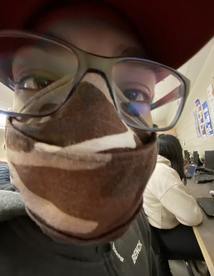
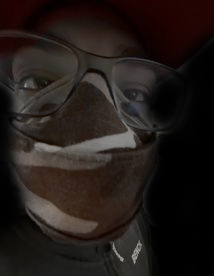
Added new character, Andrew. Improved all images

diff --git a/src/Main.java b/src/Main.java
@@ -83,9 +83,11 @@ public class Main extends JComponent implements ActionListener {
     boolean lightsOut = false;
     boolean FahadInRoom = false;
     boolean JadenInRoom = false;
+    boolean AndrewInRoom = false;
     boolean noPower = false;
     boolean powerAudio = false; //keeps track of if the out of power audio has already played. prevents audio repeating forever
     boolean doorSeenJad = false; //switches if jaden has been seen outside the door
+    boolean doorSeenAnd = false;
 
     //main menu buttons
     Rectangle newGameBut = new Rectangle(100, 460, 250, 50);
@@ -116,6 +118,7 @@ public class Main extends JComponent implements ActionListener {
     Office o = new Office();
     Fahad f = new Fahad(o, p, menu);
     Jaden j = new Jaden(o, p, menu);
+    Andrew and = new Andrew(o, p, menu, f);
     TimeController t = new TimeController();
     AudioController a = new AudioController();
 
@@ -207,7 +210,7 @@ public class Main extends JComponent implements ActionListener {
                     g.drawImage(p.leftHallLit, 100, 50, null);
                 }
                 if (j.getRoom() == 6 && o.getLight1()) {
-                    g.drawImage(j.jad1, 200, 100, null);
+                    g.drawImage(j.jadDoor, 200, 100, null);
                 }
             } else if (!lookingLeft) {
                 g.drawImage(p.butRight, 1191, 400, null);
@@ -216,19 +219,37 @@ public class Main extends JComponent implements ActionListener {
                 } else if (o.getLight2()) {
                     g.drawImage(p.rightHallLit, 980, 50, null);
                 }
+                if (and.getRoom() == 6 && o.getLight2()) {
+                    g.drawImage(and.andDoor, 800, 300, null);
+                }
             }
         } else if (camera) {
             //draws Fahad in the correct room
+            //System.out.println(f.getRoom());
             if (curCam == p.Cam1A && f.getRoom() == 0) {
                 g.drawImage(f.fad1, 500, 300, null);
             } else if (curCam == p.Cam1B && f.getRoom() == 1) {
-                g.drawImage(f.fad1, 600, 10, null);
+                g.drawImage(f.fad3, 600, 10, null);
             } else if (curCam == p.Cam7 && f.getRoom() == 2) {
-                g.drawImage(f.fad1, 450, 300, null);
+                g.drawImage(f.fad3, 450, 300, null);
             } else if (curCam == p.Cam4A && f.getRoom() == 4) {
-                g.drawImage(f.fad1, 500, 300, null);
+                g.drawImage(f.fad3, 500, 300, null);
             } else if (curCam == p.Cam4B && f.getRoom() == 5) {
                 g.drawImage(f.fad2, 0, 0, null);
+            }
+            
+            
+            //draws andrew in the correct room
+            if (curCam == p.Cam1A && and.getRoom() == 0) {
+                g.drawImage(and.and2, 750, 250, null);
+            } else if (curCam == p.Cam1B && and.getRoom() == 1) {
+                g.drawImage(and.and2, 200, 100, null);
+            } else if (curCam == p.Cam7 && and.getRoom() == 2) {
+                g.drawImage(and.and2, 550, 500, null);
+            } else if (curCam == p.Cam4A && and.getRoom() == 4) {
+                g.drawImage(and.and2, 500, 300, null);
+            } else if (curCam == p.Cam4B && and.getRoom() == 5) {
+                g.drawImage(and.and1, 0, 0, null);
             }
 
             //draws Jaden in the correct room
@@ -237,13 +258,13 @@ public class Main extends JComponent implements ActionListener {
             } else if (curCam == p.Cam1B && j.getRoom() == 1) {
                 g.drawImage(j.jad1, 300, 400, null);
             } else if (curCam == p.Cam5 && j.getRoom() == 2) {
-                g.drawImage(j.jad1, 600, 300, null);
+                g.drawImage(j.jadPaS, 0, 0, null);
             } else if (curCam == p.Cam2A && j.getRoom() == 3) {
                 g.drawImage(j.jad1, 700, 150, null);
             } else if (curCam == p.Cam3 && j.getRoom() == 4) {
                 g.drawImage(j.jad1, 500, 200, null);
             } else if (curCam == p.Cam2B && j.getRoom() == 5) {
-                g.drawImage(j.jad1, 700, 200, null);
+                g.drawImage(j.jadCorner, 0, 0, null);
             }
 
             g.setColor(Color.white);
@@ -321,6 +342,7 @@ public class Main extends JComponent implements ActionListener {
         } else if (office && !noPower) {
             FahadInRoom = f.inRoom();
             JadenInRoom = j.inRoom();
+            AndrewInRoom = and.inRoom();
             if (lookingLeft) {
                 currentImage = p.left;
             } else if (!lookingLeft) {
@@ -329,6 +351,7 @@ public class Main extends JComponent implements ActionListener {
             o.decreasePower(System.currentTimeMillis());
             f.moveOpprotunity(curCam);
             j.moveOpprotunity();
+            and.moveOpprotunity();
             if (t.getTime() == 6) {
                 office = false;
                 winScreen = true;
@@ -338,8 +361,12 @@ public class Main extends JComponent implements ActionListener {
             } else if (o.getPower() <= 0) {
                 noPower = true;
                 o.allOff();
-            }else if(doorSeenJad && j.getRoom() != 6){
+            }
+            if(doorSeenJad && j.getRoom() != 6){
                 doorSeenJad = false;
+            }
+            if(doorSeenAnd && and.getRoom() != 6){
+                doorSeenAnd = false;
             }
         } else if (office && noPower) {
             if (lookingLeft) {
@@ -358,10 +385,12 @@ public class Main extends JComponent implements ActionListener {
             }
         } else if (camera) {
             JadenInRoom = j.inRoom();
+            AndrewInRoom = and.inRoom();
             currentImage = curCam;
             o.decreasePower(System.currentTimeMillis());
             f.moveOpprotunity(curCam);
             j.moveOpprotunity();
+            and.moveOpprotunity();
             if (t.getTime() == 6) {
                 camera = false;
                 winScreen = true;
@@ -404,6 +433,9 @@ public class Main extends JComponent implements ActionListener {
         }else if(FahadInRoom){
             o.setDoor2spec(false);
             o.setLight2spec(false);
+        }else if(AndrewInRoom){
+            o.setDoor2spec(false);
+            o.setLight2spec(false);
         }
 
         if (office && FahadInRoom && Math.random() < f.getChance() / 2 && ((System.currentTimeMillis() - compareTime) /1000) % 6 == 0) {
@@ -415,6 +447,14 @@ public class Main extends JComponent implements ActionListener {
             compareTime = System.currentTimeMillis() - 1000;
         } else if (JadenInRoom && Math.random() < j.getChance() / 2 && office  && ((System.currentTimeMillis() - compareTime) /1000) % 5 == 0 || camera && JadenInRoom && Math.random() < j.getChance() / 2  && ((System.currentTimeMillis() - compareTime) /1000) % 3 == 0) {
             currentImage = j.jumpScare();
+            a.nightEnd();
+            a.jumpScare();
+            office = false;
+            camera = false;
+            isDead = true;
+            compareTime = System.currentTimeMillis() - 1000;
+        } else if (AndrewInRoom && Math.random() < and.getChance() / 2 && office  && ((System.currentTimeMillis() - compareTime) /1000) % 7 == 0 || camera && AndrewInRoom && Math.random() < and.getChance() / 2  && ((System.currentTimeMillis() - compareTime) /1000) % 3 == 0) {
+            currentImage = and.jumpScare();
             a.nightEnd();
             a.jumpScare();
             office = false;
@@ -473,8 +513,10 @@ public class Main extends JComponent implements ActionListener {
                     a.noMenu();
                     f.reset();
                     j.reset();
+                    and.reset();
                     f.startNight();
                     j.startNight();
+                    and.startNight();
                     loadNight = true;
                 } else if (e.getX() >= continueBut.x && e.getX() <= continueBut.x + continueBut.width && e.getY() >= continueBut.y && e.getY() <= continueBut.y + continueBut.height) {
                     onMenu = false;
@@ -485,8 +527,10 @@ public class Main extends JComponent implements ActionListener {
                     a.noMenu();
                     f.reset();
                     j.reset();
+                    and.reset();
                     f.startNight();
                     j.startNight();
+                    and.startNight();
                     loadNight = true;
                     night = menu.load(1);
                 }
@@ -517,15 +561,19 @@ public class Main extends JComponent implements ActionListener {
                     }
                 } else if (!lookingLeft) {
                     if (!noPower && e.getX() > rightDoorBut.x && e.getX() < rightDoorBut.x + rightDoorBut.width && e.getY() > rightDoorBut.y && e.getY() < rightDoorBut.y + rightDoorBut.height) {
-                        if(!FahadInRoom){
+                        if(!FahadInRoom && !AndrewInRoom){
                             o.setDoor2();
                             a.door();
                         }else{
                             a.buttonNotWork();
                         }
                     } else if (!noPower && e.getX() > rightHallLight.x && e.getX() < rightHallLight.x + rightHallLight.width && e.getY() > rightHallLight.y && e.getY() < rightHallLight.y + rightHallLight.height) {
-                        if(!FahadInRoom){
+                        if(!FahadInRoom && !AndrewInRoom){
                             o.setLight2();
+                            if(and.getRoom() == 6 && !doorSeenAnd){
+                                a.atDoor();
+                                doorSeenAnd = true;
+                            }
                         }else{
                             a.buttonNotWork();
                         }

diff --git a/src/Andrew.java b/src/Andrew.java
@@ -9,39 +9,41 @@ import javax.imageio.ImageIO;
  * To change this template file, choose Tools | Templates
  * and open the template in the editor.
  */
+
 /**
  *
  * @author pione
  */
-public class Jaden extends Fahad {
-
-    public BufferedImage jad1;
-    private BufferedImage jadJump;
-    public BufferedImage jadCorner;
-    public BufferedImage jadDoor;
-    public BufferedImage jadPaS;
+public class Andrew extends Fahad{
+    
+    public BufferedImage and2;
+    public BufferedImage and1;
+    public BufferedImage andDoor;
+    private BufferedImage andJump;
     private int roomNum;
     private int difficulty;
     private double chance;
-    private int moveTime = 75;
+    private int moveTime = 85;
     private boolean inRoom = false;
+    Fahad f;
 
     private long startTime;
 
-    public Jaden(Office o, Player p, MainMenu m) {
+    
+    public Andrew(Office o, Player p, MainMenu m, Fahad f) {
         super(o, p, m);
+        this.f = f;
         roomNum = 0;
         try {
-            jad1 = ImageIO.read(new File("images//jad1.jpg"));
-            jadJump = ImageIO.read(new File("images//jaden_2cr.jpg"));
-            jadCorner = ImageIO.read(new File("images//jad2_.png"));
-            jadDoor = ImageIO.read(new File("images//jad1.png"));
-            jadPaS = ImageIO.read(new File("images//jad3.png"));
+            and2 = ImageIO.read(new File("images//and2_1.jpg"));
+            and1 = ImageIO.read(new File("images//and1_.png"));
+            andJump = ImageIO.read(new File("images//and3_.jpg"));
+            andDoor = ImageIO.read(new File("images//and2.png"));
         } catch (Exception e) {
 
         }
     }
-
+    
     @Override
     public void startNight() {
         this.startTime = System.currentTimeMillis() + 5000;
@@ -58,11 +60,11 @@ public class Jaden extends Fahad {
             } else if (diff == 2) {
                 this.difficulty = 2;
             } else if (diff == 3) {
-                this.difficulty = 4;
+                this.difficulty = 3;
             } else if (diff == 4) {
-                this.difficulty = 8;
+                this.difficulty = 7;
             } else if (diff == 5) {
-                this.difficulty = 14;
+                this.difficulty = 13;
             }
             System.out.println(difficulty);
             chance = difficulty * 0.05;
@@ -73,14 +75,29 @@ public class Jaden extends Fahad {
     }
 
     public void moveOpprotunity() {
+        //makes sure andrew isn't in the same hall as Fahad
+        System.out.println(f.getRoom());
+        if(roomNum > 3 && roomNum == f.getRoom()){
+            roomNum = 1;
+            return;
+        }
         if ((System.currentTimeMillis() - startTime) / 100 > moveTime) {
-            if (roomNum < 6 && Math.random() < chance) {
+            if (roomNum < 3 && Math.random() < chance) {
+                roomNum++;
+                startTime = System.currentTimeMillis() - 1000;
+            }else if(roomNum + 1 != f.getRoom() && roomNum == 3 && Math.random() < chance){
+                roomNum++;
+                startTime = System.currentTimeMillis() - 1000;
+            }else if(roomNum + 1 != f.getRoom() && roomNum == 4 && Math.random() < chance){
+                roomNum++;
+                startTime = System.currentTimeMillis() - 1000;
+            }else if(roomNum + 1 != f.getRoom() && roomNum == 5 && Math.random() < chance){
                 roomNum++;
                 startTime = System.currentTimeMillis() - 1000;
             }else if(roomNum == 6 && Math.random() < chance && o.getDoor1()){
                 roomNum = 1;
                 startTime = System.currentTimeMillis() - 1000;
-            }else if(roomNum == 6 && Math.random() < chance && !o.getDoor1()){
+            }else if(roomNum + 1 != f.getRoom() && roomNum == 6 && Math.random() < chance && !o.getDoor1()){
                 roomNum = 7;
                 inRoom = true;
                 startTime = System.currentTimeMillis() - 1000;
@@ -108,7 +125,7 @@ public class Jaden extends Fahad {
     
     @Override
     public BufferedImage jumpScare(){
-        return jadJump;
+        return andJump;
     }
     
     @Override

diff --git a/src/Fahad.java b/src/Fahad.java
@@ -28,6 +28,7 @@ public class Fahad {
     private long startTime;
     public BufferedImage fad1;
     public BufferedImage fad2;
+    public BufferedImage fad3;
     private BufferedImage fadJump;
     
     public Fahad(Office o, Player p, MainMenu m){
@@ -38,6 +39,7 @@ public class Fahad {
         try{
             fad1 = ImageIO.read(new File("images//Fahad_1_30.jpg"));
             fad2 = ImageIO.read(new File("images//Fahad_3(1).png"));
+            fad3 = ImageIO.read(new File("images//Fahad_1_30_2.jpg"));
             fadJump = ImageIO.read(new File("images//Fahad_2.jpg"));
         }catch(Exception e){
             e.printStackTrace();
